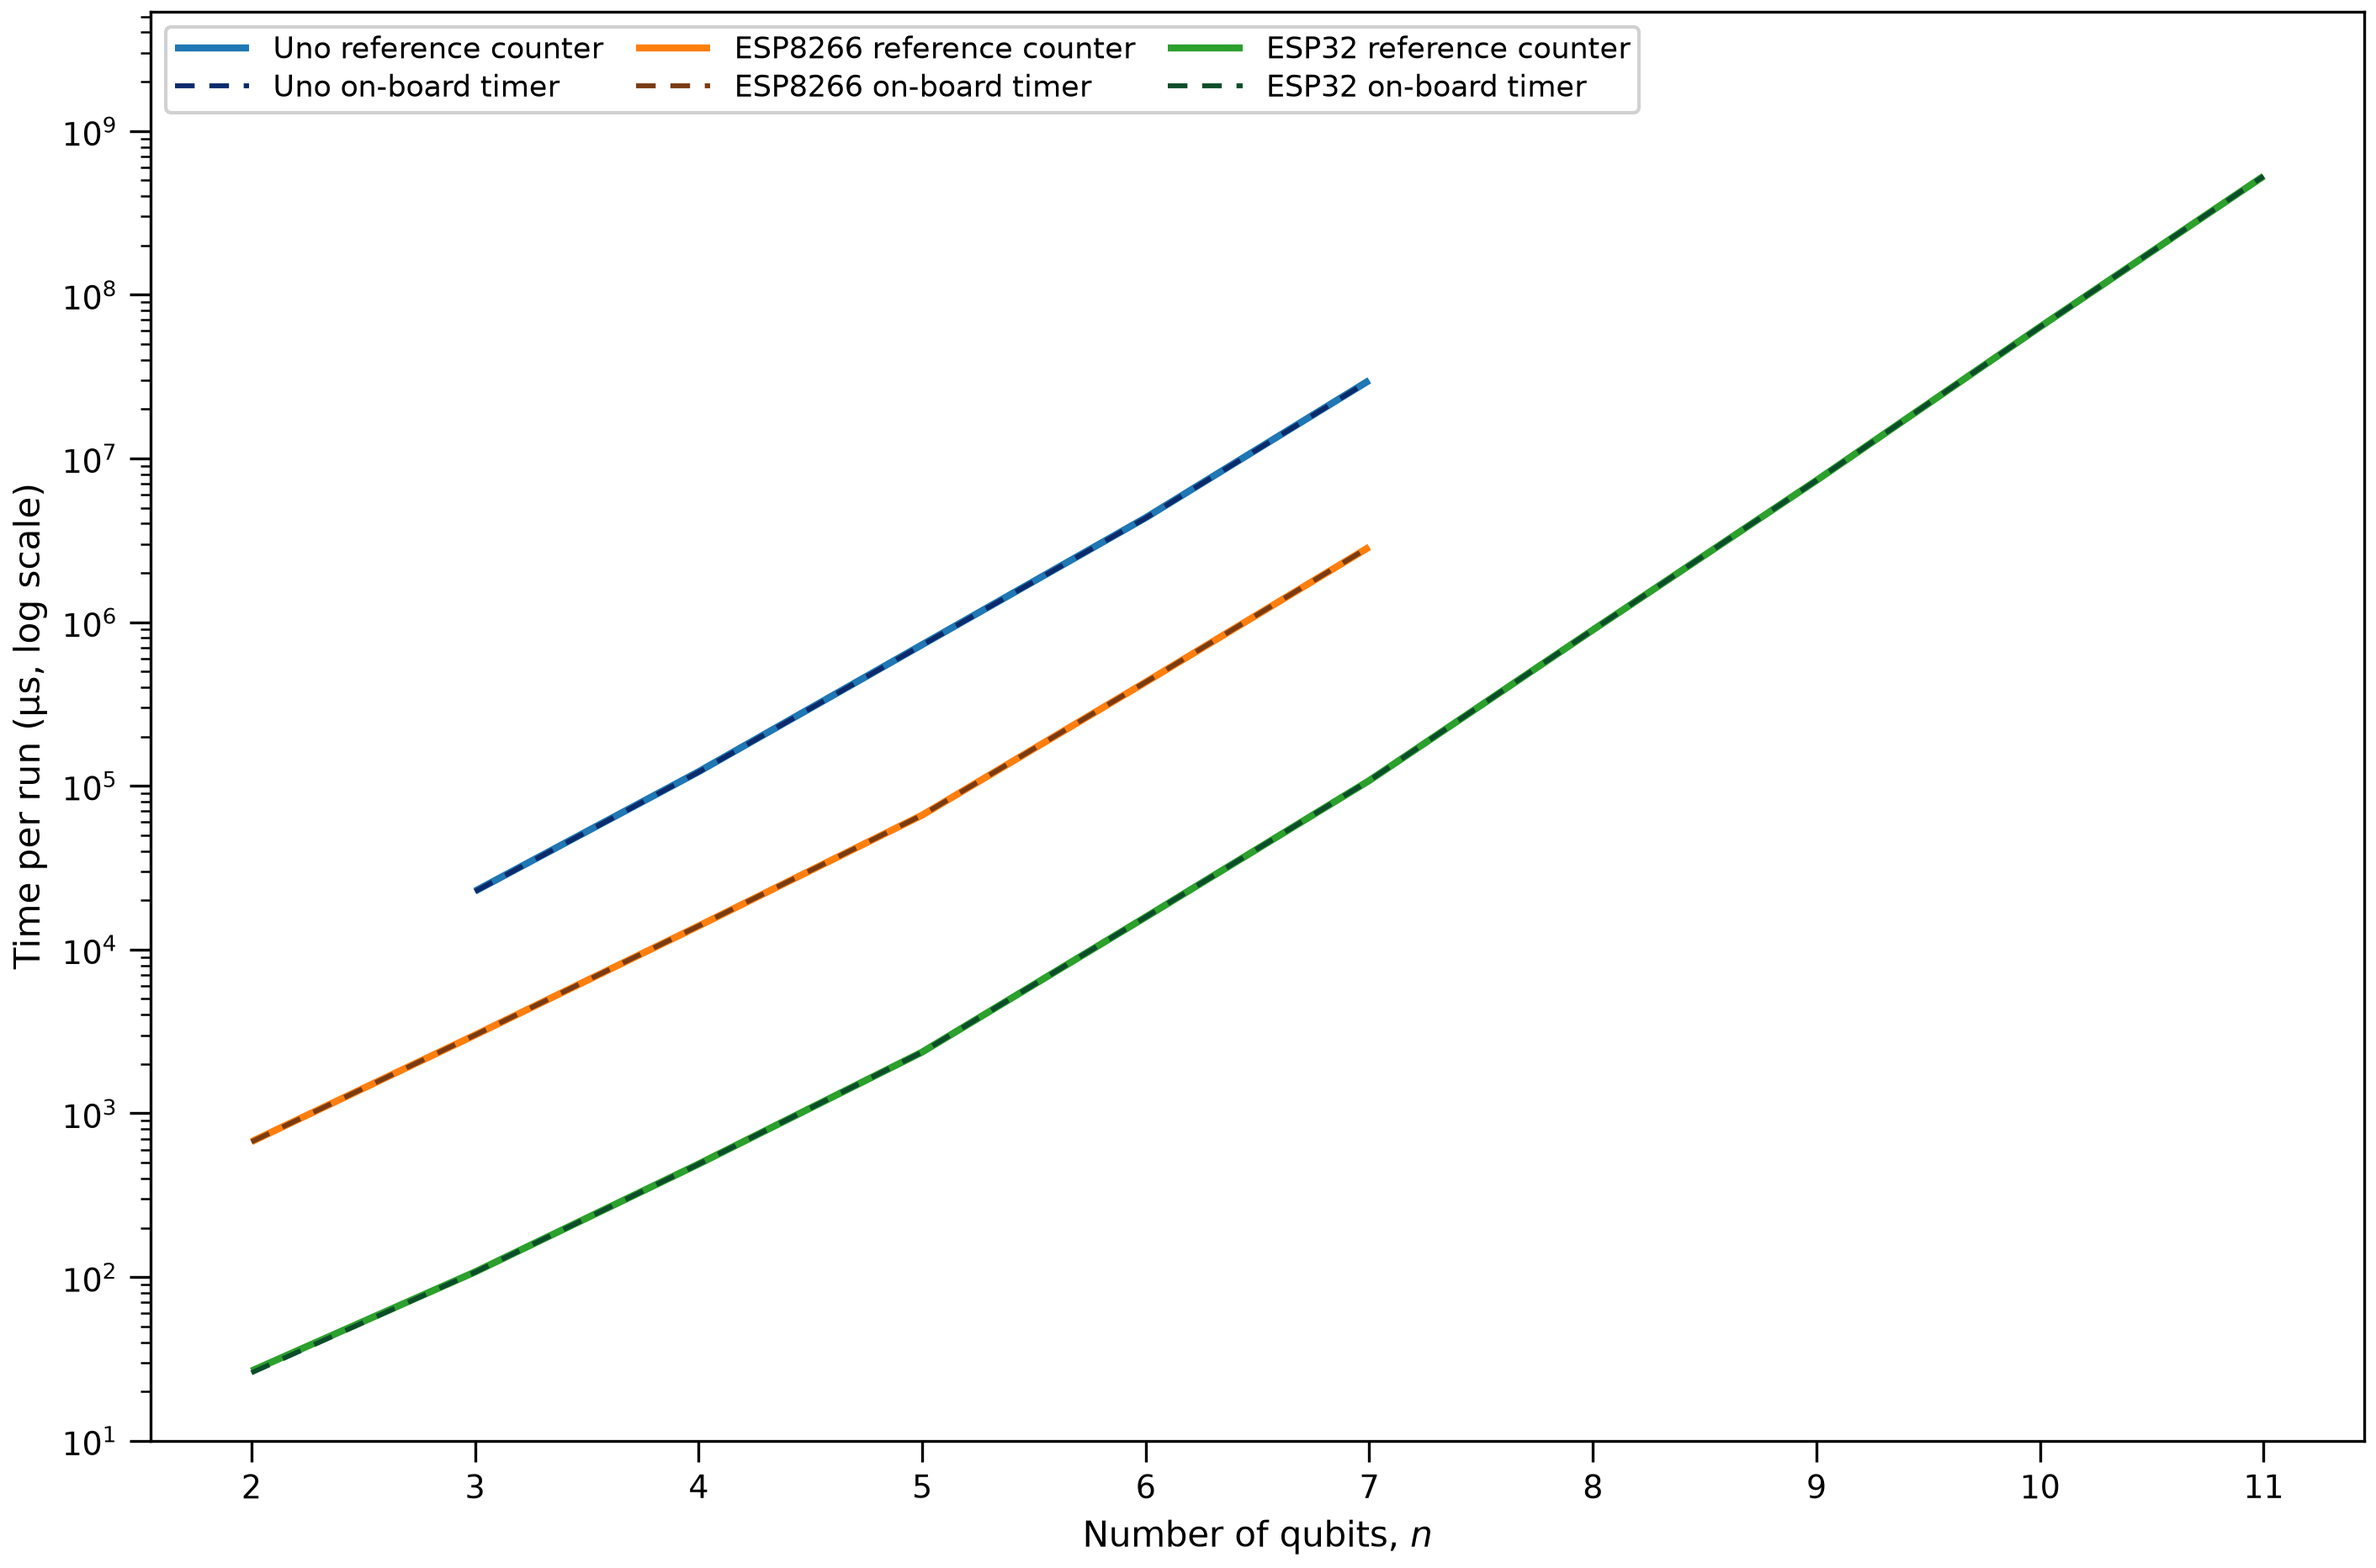
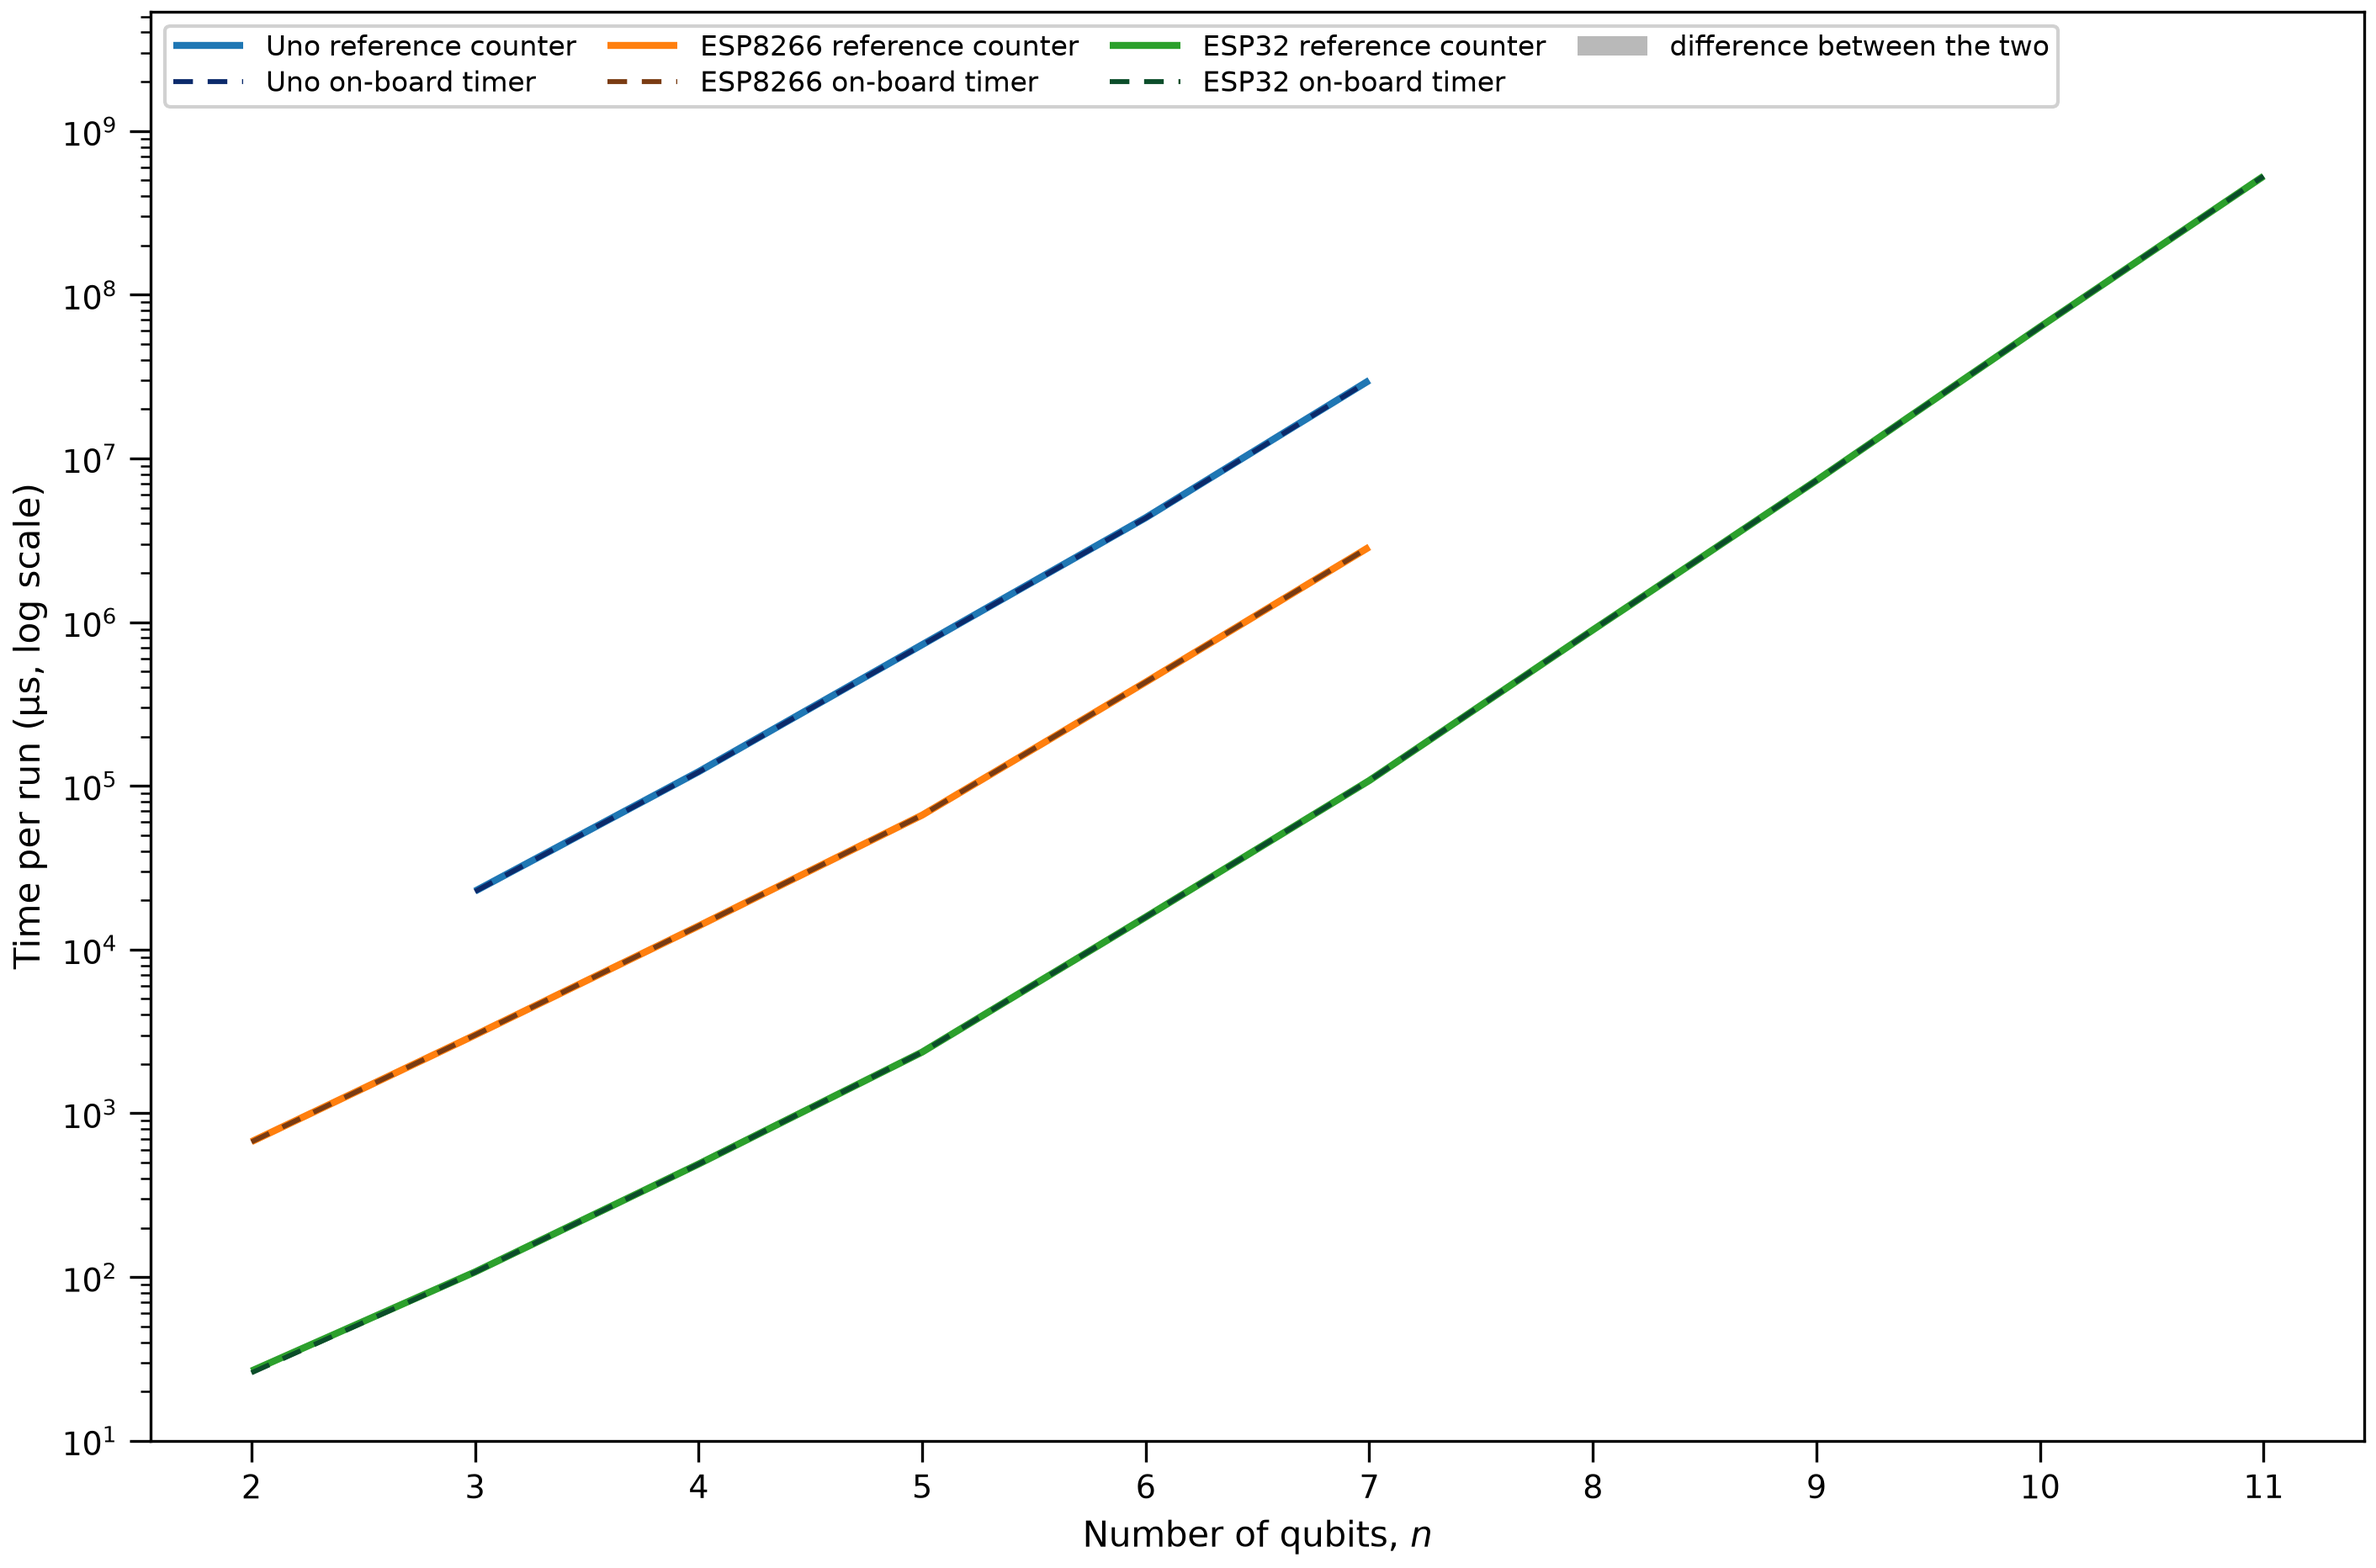
figures: timer_vs_counter charts shade the gap between the reference counter and the on-board timer
Claude-Session: https://claude.ai/code/session_01AE6WdfFceGc968bUQSKnsU

Changed region(s): [[0.0623, 0.0, 0.8725, 0.0933]]

diff --git a/analysis/timer_vs_counter_house_plots.py b/analysis/timer_vs_counter_house_plots.py
@@ -1,7 +1,7 @@
 #!/usr/bin/env python3
 # timer_vs_counter_house_plots.py
 # Per board: time per run from the external reference counter (solid) and from the board's own timer, micros() (dashed), one colour per board
-# (µs, log scale, point medians) vs n, one chart per circuit with the three boards, in the house line-chart style of the graph-create skill
+# (µs, log scale, point medians) vs n; the gap between the two lines is shaded, one chart per circuit with the three boards, in the house line-chart style of the graph-create skill
 # (same layout as analysis/algorithm_house_plots.py: no title, legend = board names, linear y). Only points whose counter pair passed the validity rules
 # (usable) in the selected sessions are drawn (data/derived/counter_validity.csv, read-only); the line is drawn straight over unusable points.
 #   data/figures/phase2/timer_vs_counter/<circuit>.png   data/figures/phase3/timer_vs_counter/<circuit>.png
@@ -11,6 +11,7 @@ import os
 import sys
 
 import matplotlib.ticker as mticker
+from matplotlib.patches import Patch
 import numpy as np
 import pandas as pd
 
@@ -50,7 +51,15 @@ for ph in (2, 3):
                         ln.set_dashes((4, 3))
                     else:
                         ln.set_color(FAMILIES[gi][0])
-        ax.legend(loc="upper left", ncol=3, fontsize=8.5, framealpha=0.9)
+        inv = {v: k for k, v in NAME.items()}
+        for gi, bn in enumerate(NAME.values()):                # shade the gap between the two clocks, in the board's colour
+            gg = g[g.board == inv[bn]].sort_values("n")
+            if len(gg):
+                ax.fill_between(gg.n, gg.counter_median_us, gg.micros_median_us, color=FAMILIES[gi][0], alpha=0.55, lw=0, zorder=3)
+        hs, ls = ax.get_legend_handles_labels()
+        hs.append(Patch(facecolor="0.5", alpha=0.55, label="difference between the two"))
+        ls.append("difference between the two")
+        ax.legend(hs, ls, loc="upper left", ncol=4, fontsize=8, framealpha=0.9)
         lo, hi = df.time_us.min(), df.time_us.max()
         lo_e = int(np.floor(np.log10(lo)))
         ax.set_ylim(10.0 ** lo_e, 10.0 ** (np.log10(hi) + 0.13 * (np.log10(hi) - lo_e)))   # whole decade below, headroom for the legend
